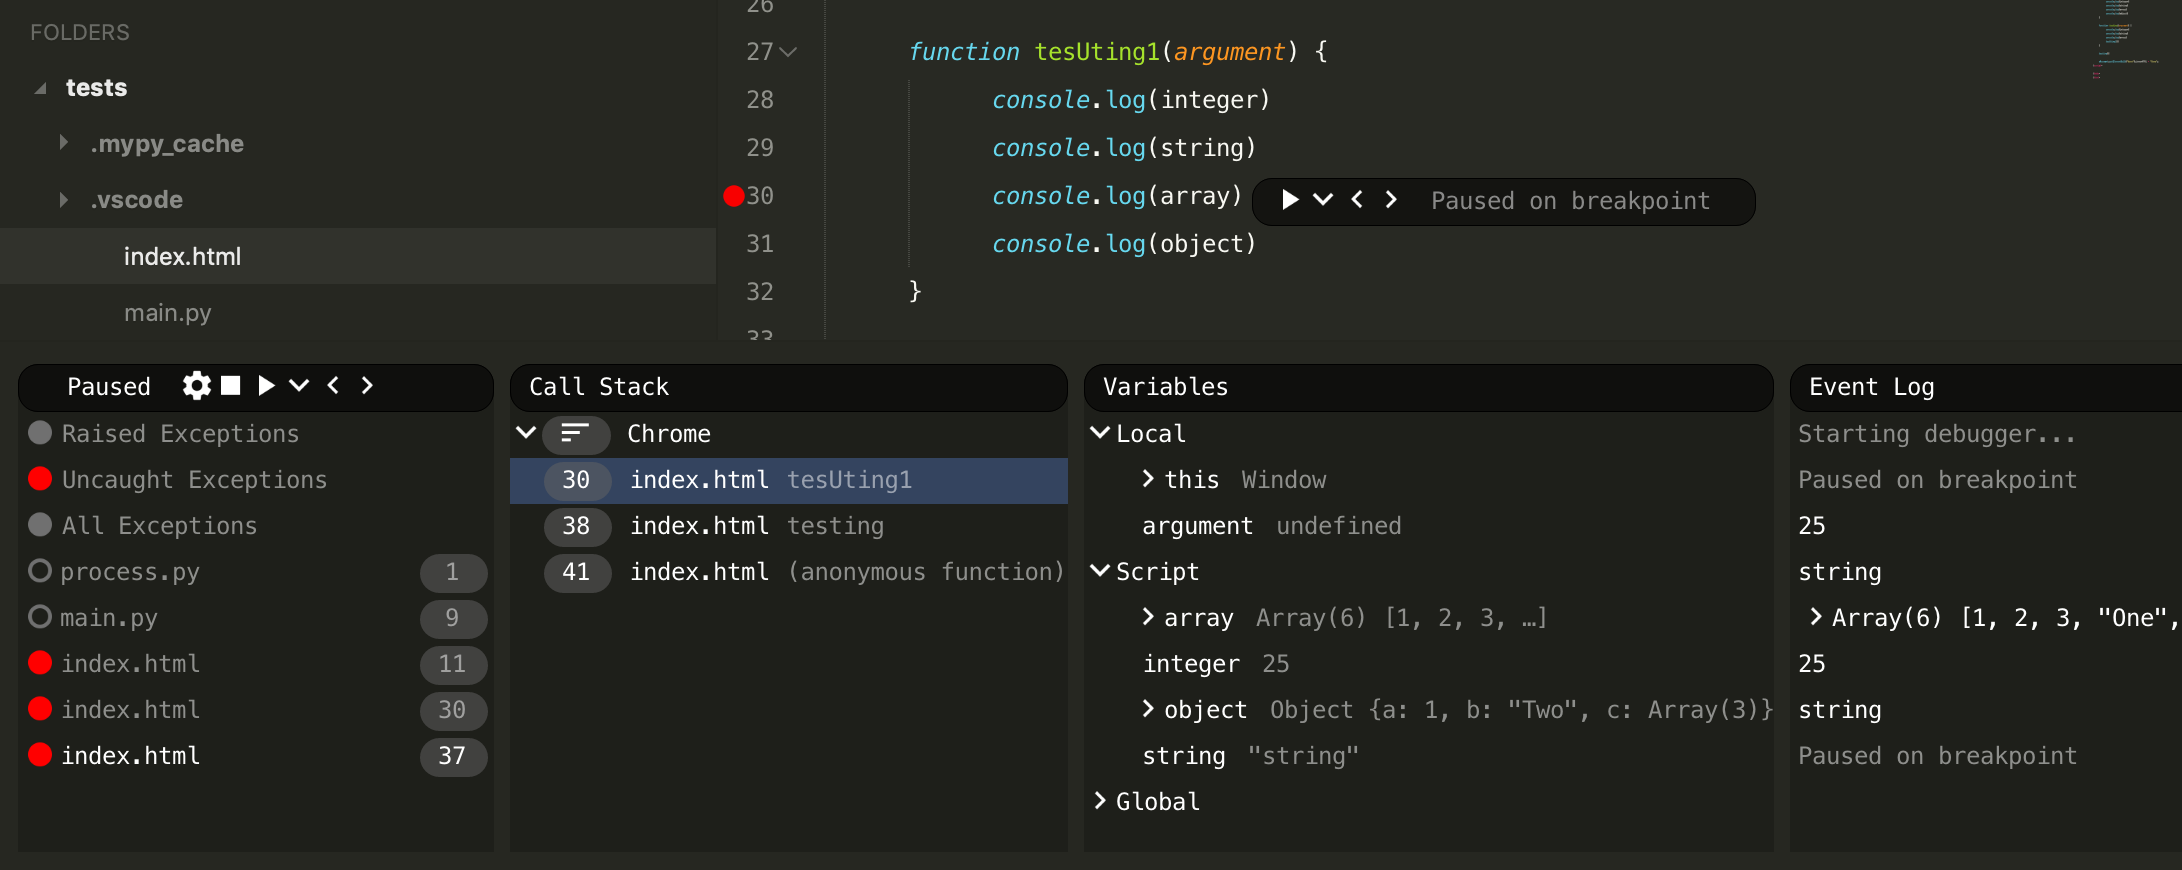
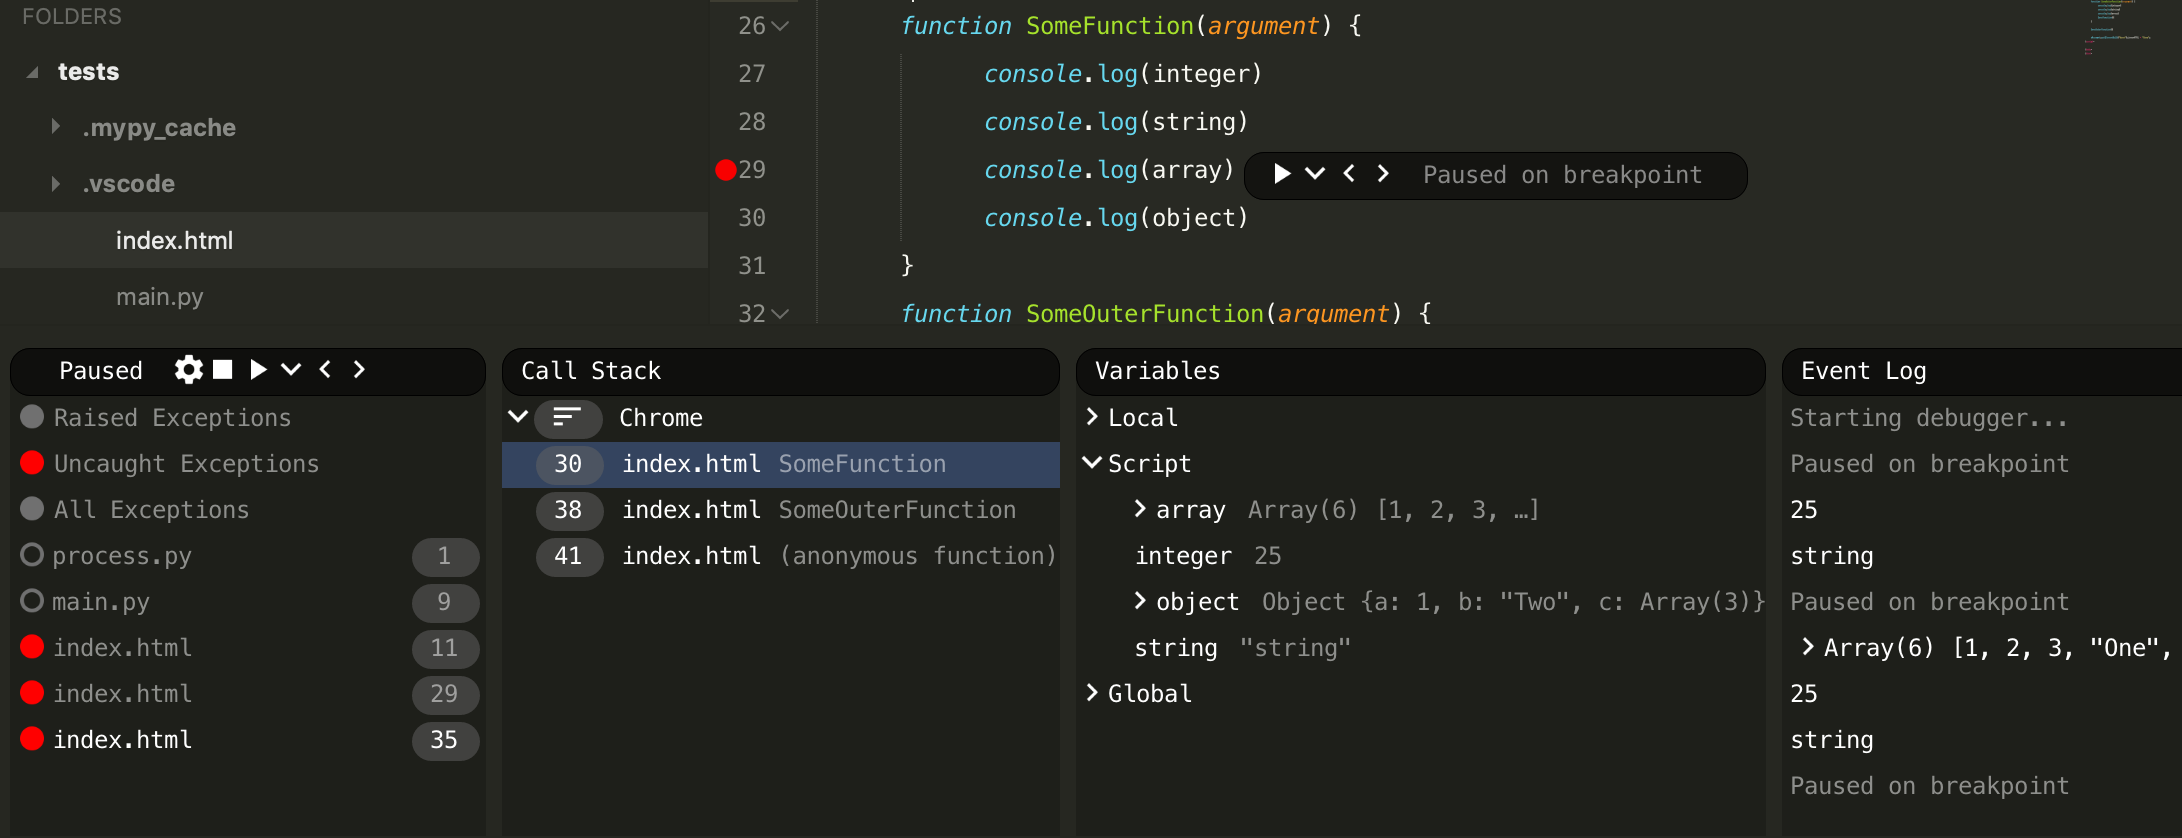
Updated tests

diff --git a/tests/index.html b/tests/index.html
@@ -24,21 +24,21 @@
 	catch (e) {
 	}
 	
-	function tesUting1(argument) {
+	function SomeFunction(argument) {
 		console.log(integer)
 		console.log(string)
 		console.log(array)
 		console.log(object)
 	}
 
-	function testing(argument) {
+	function SomeOuterFunction(argument) {
 		console.log(integer)
 		console.log(string)
 		console.log(array)
-		tesUting1()
+		SomeFunction()
 	}
 
-	testing()
+	SomeOuterFunction()
 
 	document.getElementById("demo").innerHTML = "Done";
 </script> 

diff --git a/tests/main.py b/tests/main.py
@@ -17,6 +17,7 @@ def outer(i):
 		func(i)
 	outer(i - 1)
 
+
 t1 = Thread(target = outer, args = (1,))
 t1.start()
 t2 = Thread(target = outer, args = (5,))
